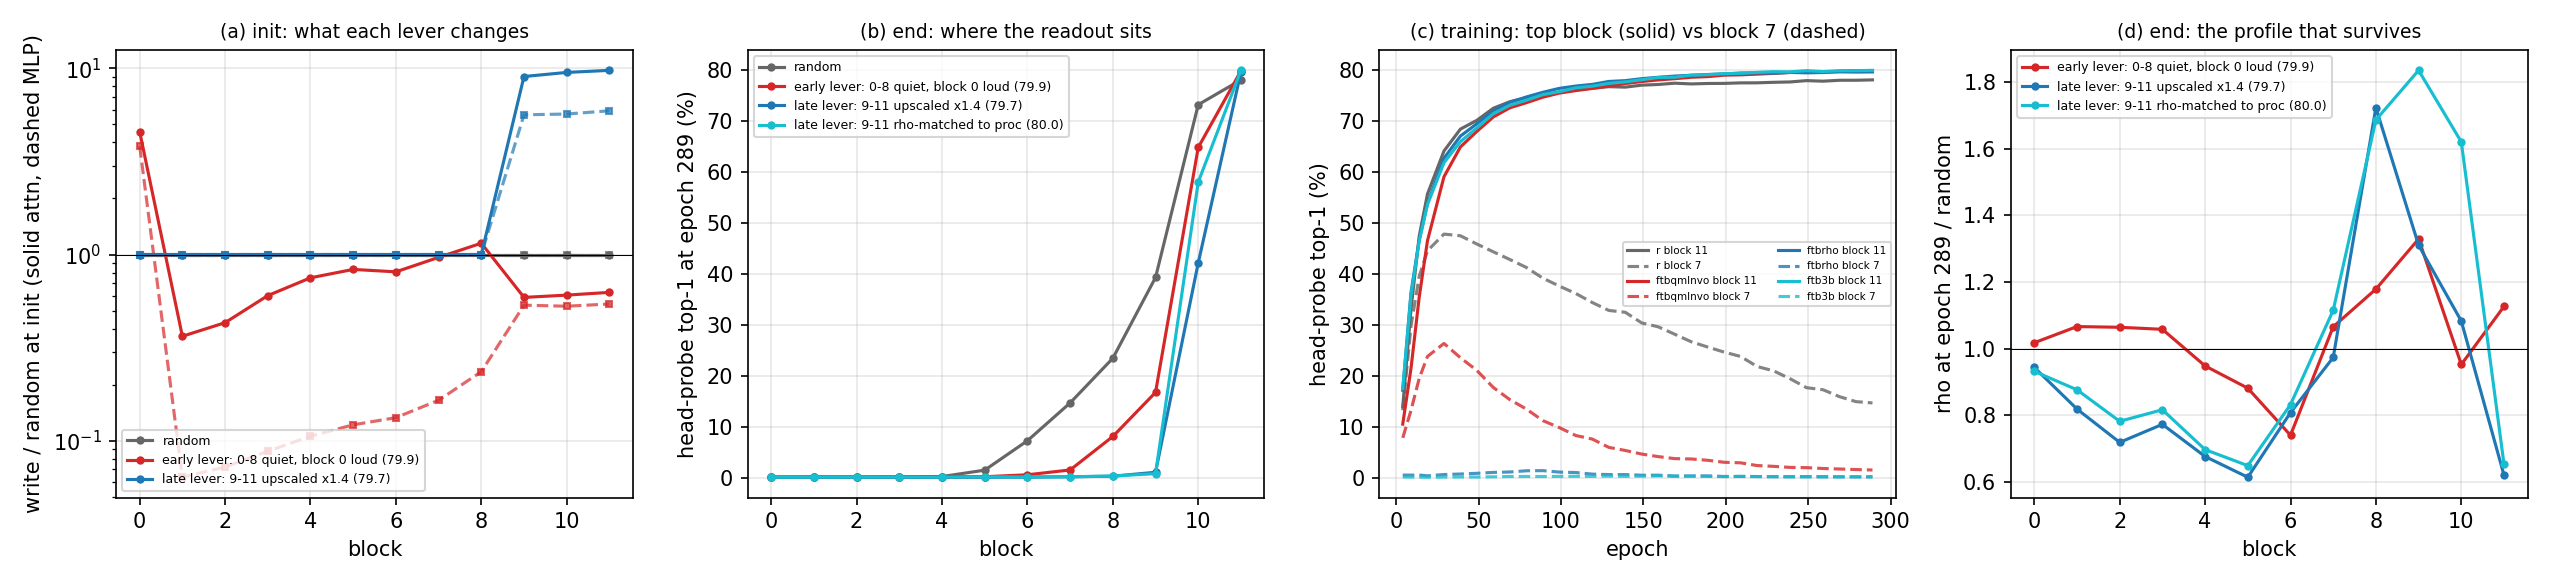
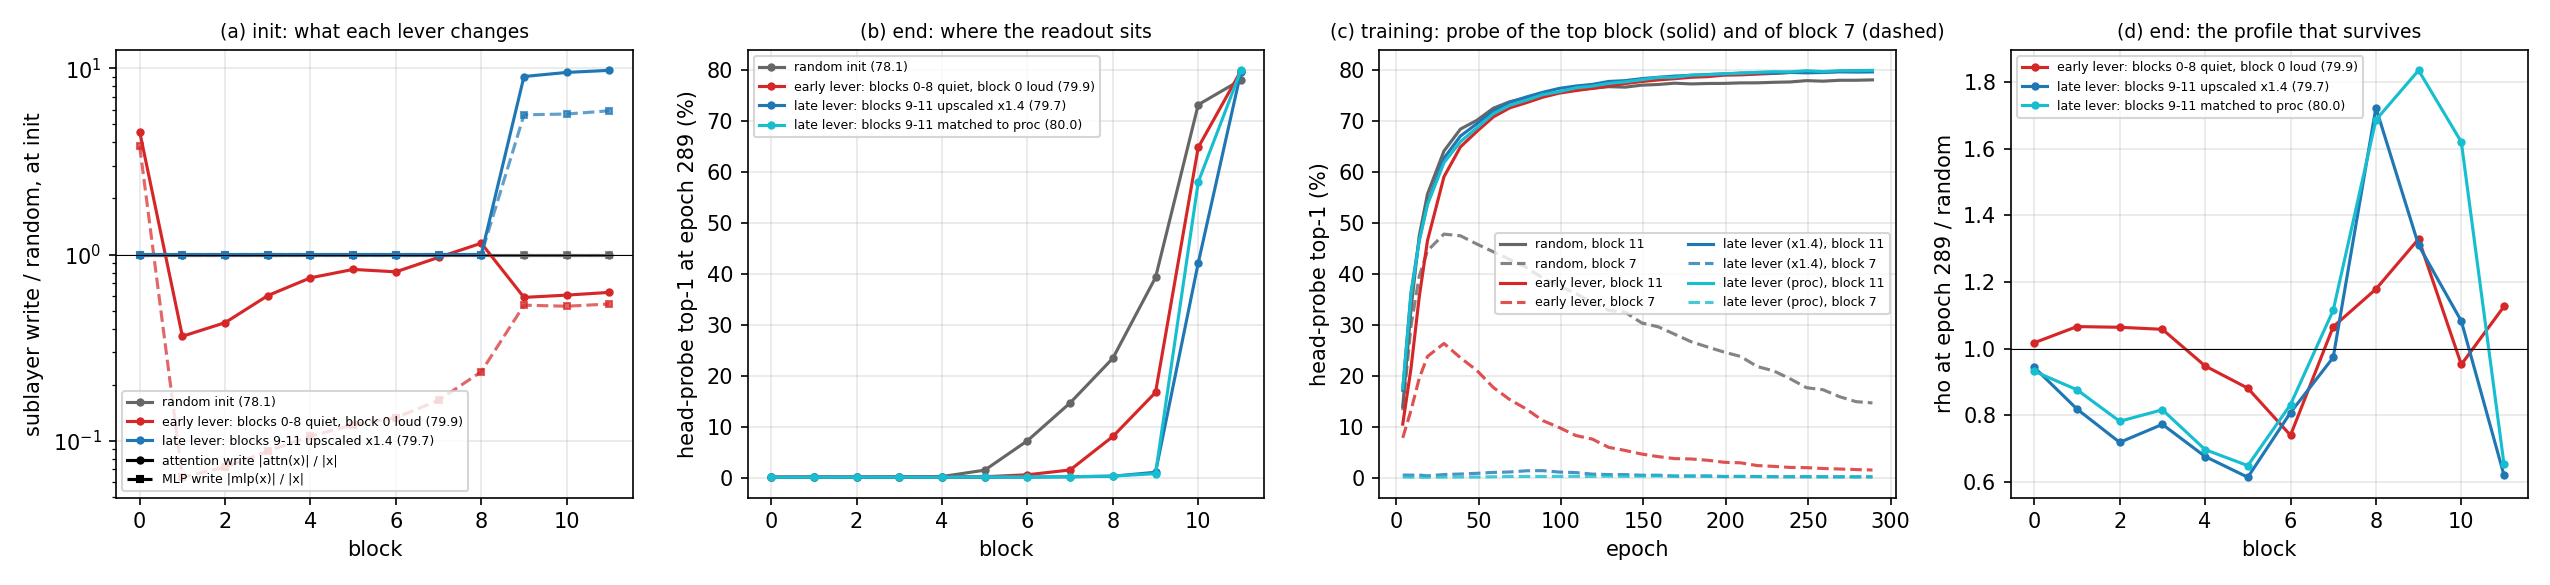
fig18: legend for attention vs MLP write in panel a, readable arm names in panel c
Claude-Session: https://claude.ai/code/session_013aU3pDds5CX1JM4aB1Qxx4

diff --git a/plots/verify/fig_two_levers.py b/plots/verify/fig_two_levers.py
@@ -10,8 +10,9 @@ matplotlib.use("Agg"); import matplotlib.pyplot as plt
 ROOT = "/home/schrodi/Procedural"
 C = json.load(open(f"{ROOT}/plots/cache/verify/wandb_layerwise.json"))
 F = json.load(open(f"{ROOT}/results/init_dumps/init_forward_stats.json"))
-ARMS = [("r", "random", "0.4"), ("ftbqmlnvo", "early lever: 0-8 quiet, block 0 loud (79.9)", "C3"),
-        ("ftbrho", "late lever: 9-11 upscaled x1.4 (79.7)", "C0"), ("ftb3b", "late lever: 9-11 rho-matched to proc (80.0)", "C9")]
+ARMS = [("r", "random init (78.1)", "0.4"), ("ftbqmlnvo", "early lever: blocks 0-8 quiet, block 0 loud (79.9)", "C3"),
+        ("ftbrho", "late lever: blocks 9-11 upscaled x1.4 (79.7)", "C0"), ("ftb3b", "late lever: blocks 9-11 matched to proc (80.0)", "C9")]
+SHORT = {"r": "random", "ftbqmlnvo": "early lever", "ftbrho": "late lever (x1.4)", "ftb3b": "late lever (proc)"}
 
 def seed_mean(arm, fam):
     per = []
@@ -35,8 +36,12 @@ for arm, lab, c in ARMS:
     rm = [F[key][str(b)]["rho_mlp"] / r0[str(b)]["rho_mlp"] for b in blocks]
     ax[0].plot(blocks, ra, "-o", color=c, ms=3, label=lab); ax[0].plot(blocks, rm, "--s", color=c, ms=3, alpha=0.7)
     print(f"init rho/random {arm:10s} attn " + " ".join(f"{x:4.2f}" for x in ra) + " | mlp " + " ".join(f"{x:4.2f}" for x in rm))
-ax[0].set_yscale("log"); ax[0].axhline(1, color="k", lw=0.5); ax[0].set_xlabel("block"); ax[0].set_ylabel("write / random at init (solid attn, dashed MLP)")
-ax[0].set_title("(a) init: what each lever changes", fontsize=9); ax[0].legend(fontsize=6, loc="lower left")
+from matplotlib.lines import Line2D
+ax[0].set_yscale("log"); ax[0].axhline(1, color="k", lw=0.5); ax[0].set_xlabel("block"); ax[0].set_ylabel("sublayer write / random, at init")
+ax[0].set_title("(a) init: what each lever changes", fontsize=9)
+h, l = ax[0].get_legend_handles_labels()
+h += [Line2D([], [], color="k", ls="-", marker="o", ms=3), Line2D([], [], color="k", ls="--", marker="s", ms=3)]; l += ["attention write |attn(x)| / |x|", "MLP write |mlp(x)| / |x|"]
+ax[0].legend(h, l, fontsize=6, loc="lower left")
 # (b) readout location at 289
 print("\nprobe top-1 per block at epoch 289 (seed mean):")
 for arm, lab, c in ARMS:
@@ -47,9 +52,9 @@ ax[1].set_xlabel("block"); ax[1].set_ylabel("head-probe top-1 at epoch 289 (%)")
 # (c) probe over training for blocks 7 and 11
 for arm, lab, c in ARMS:
     eps, A = seed_mean(arm, "acc")
-    ax[2].plot(eps, A[:, 11], "-", color=c, label=f"{arm} block 11"); ax[2].plot(eps, A[:, 7], "--", color=c, alpha=0.8, label=f"{arm} block 7")
+    ax[2].plot(eps, A[:, 11], "-", color=c, label=f"{SHORT[arm]}, block 11"); ax[2].plot(eps, A[:, 7], "--", color=c, alpha=0.8, label=f"{SHORT[arm]}, block 7")
     pk = int(np.nanargmax(A[:, 7])); print(f"{arm:10s} block-7 probe peak {A[pk,7]:.1f} at epoch {eps[pk]}, at 289: {A[-1,7]:.1f};  block 11 at 289: {A[-1,11]:.1f}")
-ax[2].set_xlabel("epoch"); ax[2].set_ylabel("head-probe top-1 (%)"); ax[2].set_title("(c) training: top block (solid) vs block 7 (dashed)", fontsize=9); ax[2].legend(fontsize=5, ncol=2)
+ax[2].set_xlabel("epoch"); ax[2].set_ylabel("head-probe top-1 (%)"); ax[2].set_title("(c) training: probe of the top block (solid) and of block 7 (dashed)", fontsize=9); ax[2].legend(fontsize=6, ncol=2)
 # (d) end profile relative to random
 epsr, Rr = seed_mean("r", "delta_norm_ratio"); rend = Rr[epsr.index(289)]
 print("\nrho at epoch 289 relative to random:")
